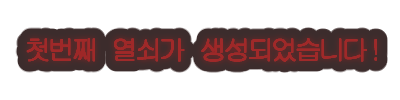
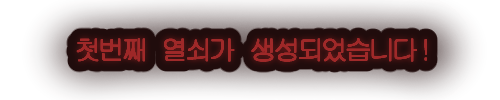
11/30 첫번째 열쇠 생성 + 리소스 추가

diff --git a/play_mode.py b/play_mode.py
@@ -4,7 +4,7 @@ from pygame.examples.cursors import image
 import game_world
 import game_framework
 from player import Player
-from background import Background
+from background import Background, Cover
 from Weapon import Arrow
 import server
 import object_wall
@@ -37,6 +37,9 @@ def init():
     game_world.add_collision_pair('player:wall',server.player,None)
     for wall in server.walls:
         game_world.add_collision_pair('player:wall',None,wall)
+
+    server.cover=Cover()
+    game_world.add_object(server.cover,2)
 
 
 

diff --git a/key.py b/key.py
@@ -35,18 +35,15 @@ class Key:
         pass
 
 class key_open_text:
-    image = None
-
     def __init__(self):
-        if key_open_text.image == None:
-            key_open_text.image = load_image('key_open1.png')
+        key_open_text.image = load_image(f'key_open{server.player.key_count+1}.png')
 
 
     def update(self):
         pass
 
     def draw(self):
-        self.image.clip_draw(0, 0, 400, 100,800, 750,800,200)
+        self.image.clip_draw(0, 0, 500, 100,800, 750,1000,200)
         pass
 
     def get_bb(self):

diff --git a/background.py b/background.py
@@ -25,14 +25,14 @@ class Background:
        # print(f'~~~~~~~~~~~bg x1{self.x1},    bg y1{self.y1}')
         return self.x1,self.y1
 
-'''
-back = Background()
 
-while(True):
-    clear_canvas()
-    back.draw()
-    update_canvas()
+class Cover:
+    def __init__(self):
+        self.image = load_image('cover.png')
 
-close_canvas()
+    def update(self):
+        pass
 
-'''
+    def draw(self):
+        # self.image.draw(650,400)
+        self.image.clip_draw(0,0, 600, 400, 800, 500, 1600, 1000)

diff --git a/server.py b/server.py
@@ -3,3 +3,4 @@ b_g = None
 walls =None
 start_time=None
 key=None
+cover=None
